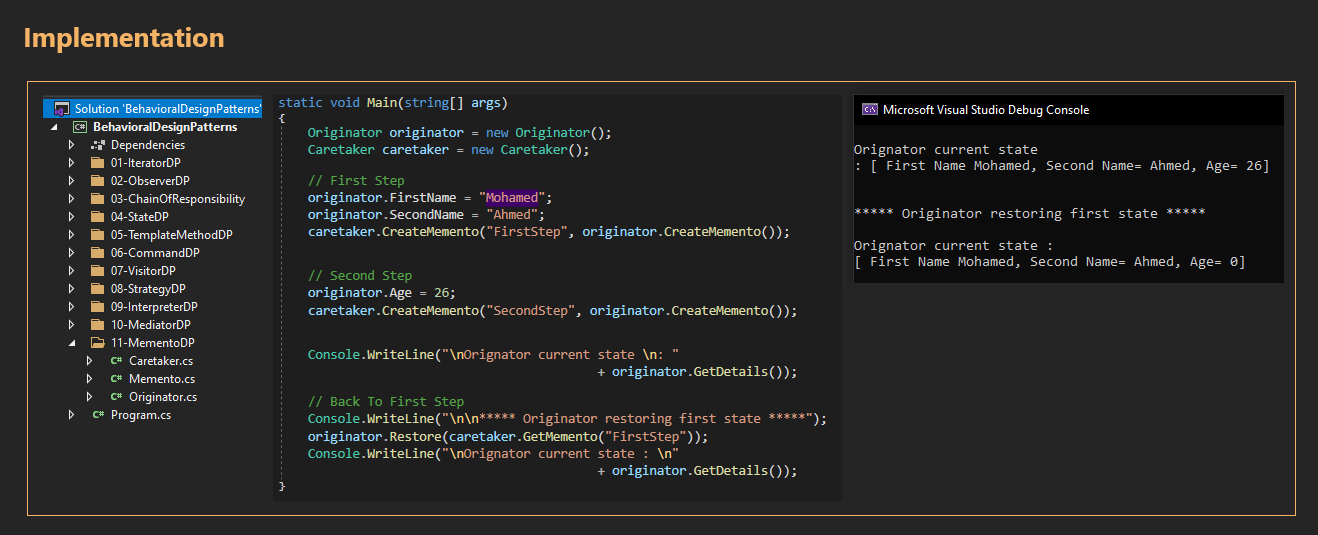
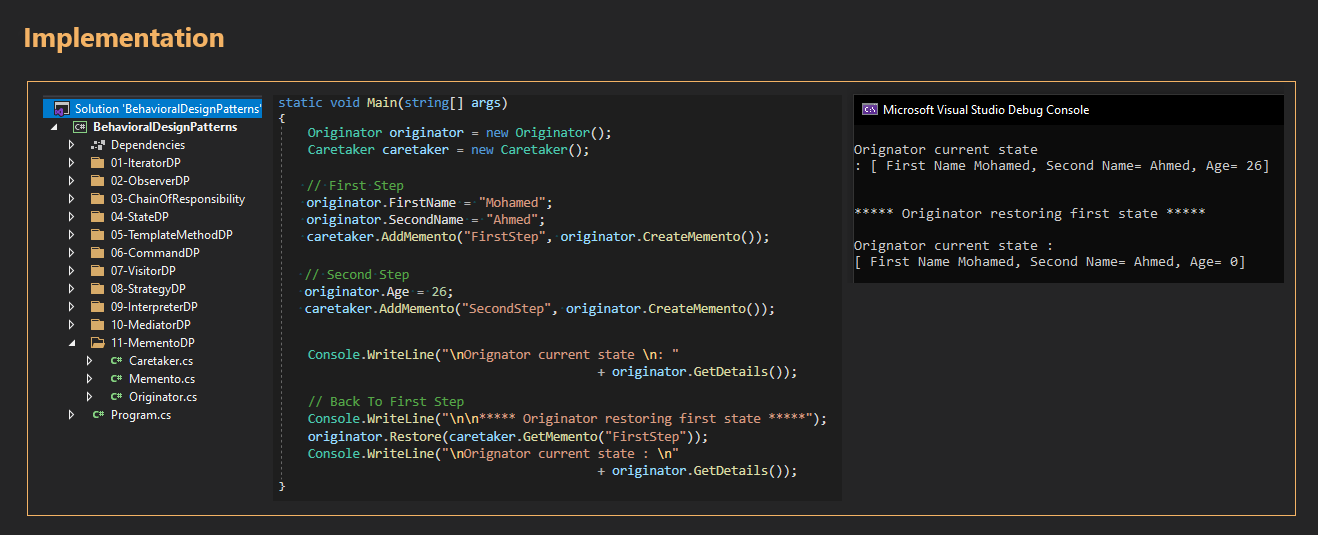
Memento (Rename CreateMemento to AddMemento)

Changed region(s): [[0.2178, 0.329, 0.591, 0.4486], [0.2178, 0.5084, 0.6222, 0.5981]]

diff --git a/Behavioral Design Patterns/BehavioralDesignPatterns/BehavioralDesignPatterns/Program.cs b/Behavioral Design Patterns/BehavioralDesignPatterns/BehavioralDesignPatterns/Program.cs
@@ -183,12 +183,12 @@ namespace BehavioralDesignPatterns
             //// First Step
             //originator.FirstName = "Mohamed";
             //originator.SecondName = "Ahmed";
-            //caretaker.CreateMemento("FirstStep", originator.CreateMemento());
+            //caretaker.AddMemento("FirstStep", originator.CreateMemento());
 
 
             //// Second Step
             //originator.Age = 26;
-            //caretaker.CreateMemento("SecondStep", originator.CreateMemento());
+            //caretaker.AddMemento("SecondStep", originator.CreateMemento());
 
 
             //Console.WriteLine("\nOrignator current state \n: "

diff --git a/Behavioral Design Patterns/BehavioralDesignPatterns/BehavioralDesignPatterns/11-MementoDP/Caretaker.cs b/Behavioral Design Patterns/BehavioralDesignPatterns/BehavioralDesignPatterns/11-MementoDP/Caretaker.cs
@@ -7,7 +7,7 @@ namespace BehavioralDesignPatterns.MementoDP
     public class Caretaker
     {
         private Dictionary<string,Memento> Mementos = new Dictionary <string, Memento>();
-        public void CreateMemento(string StepName,Memento m)
+        public void AddMemento(string StepName,Memento m)
         {
             Mementos[StepName]=m;
             //Console.WriteLine("User snapshots Maintained by CareTaker :"
